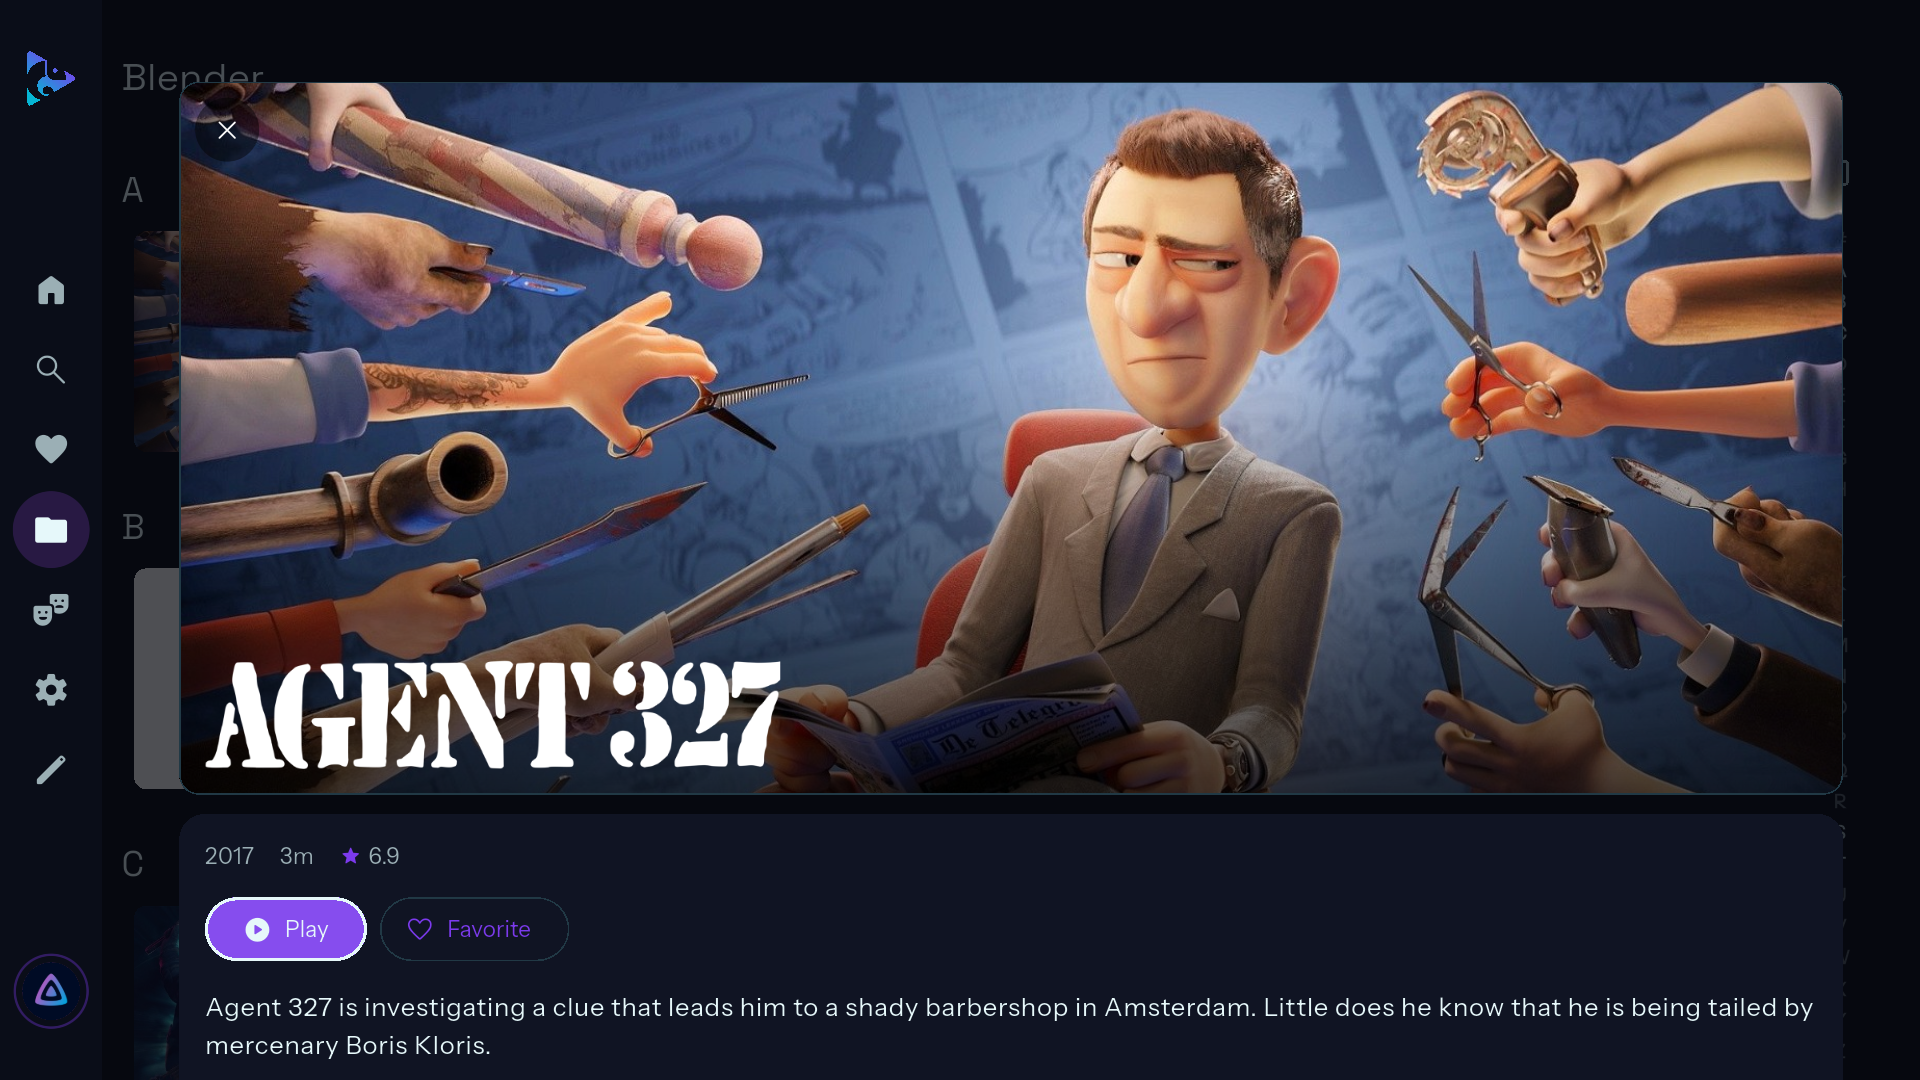
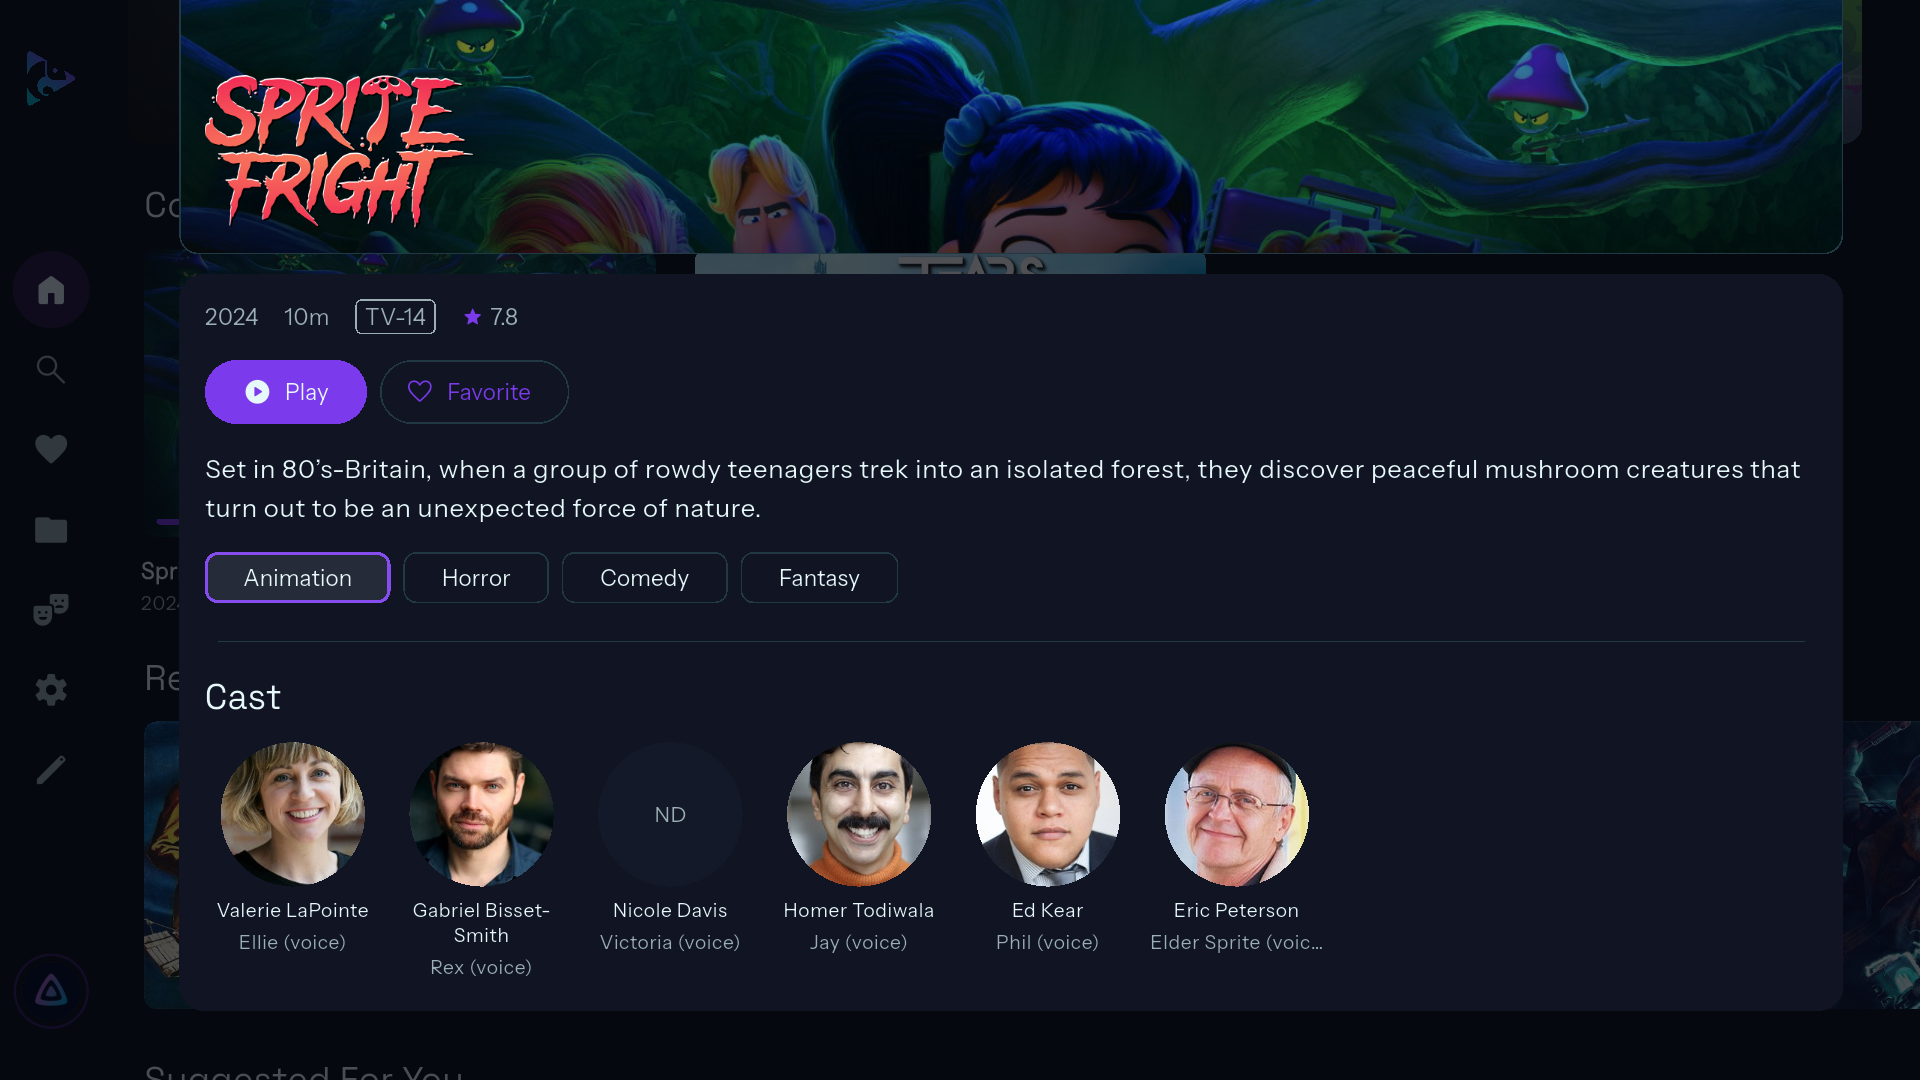
Release 1.1.2 (build 4): fix green video edges on Android TV
Flutter's ImageReader surface producer draws a decoder's whole buffer, ignoring its crop,
so decoders that pad frames (many TV chips) showed the padding as green bars. Video
surfaces now use SurfaceTexture, which applies the crop. Also new TV screenshots.

diff --git a/android/app/src/main/kotlin/dev/jumpingfox/chameleon/MainActivity.kt b/android/app/src/main/kotlin/dev/jumpingfox/chameleon/MainActivity.kt
@@ -14,6 +14,7 @@ import android.view.View
 import android.view.ViewGroup
 import io.flutter.embedding.android.FlutterActivity
 import io.flutter.embedding.engine.FlutterEngine
+import io.flutter.embedding.engine.renderer.FlutterRenderer
 import io.flutter.plugin.common.MethodChannel
 
 class MainActivity : FlutterActivity() {
@@ -30,6 +31,11 @@ class MainActivity : FlutterActivity() {
     }
 
     override fun configureFlutterEngine(flutterEngine: FlutterEngine) {
+        // Video frames reach Flutter through a SurfaceTexture rather than an ImageReader. Flutter
+        // draws an ImageReader's whole buffer, ignoring the decoder's crop, so a decoder that pads
+        // its frames (many TV chips round 2160 up to 2176, say) shows the padding as green edges.
+        // A SurfaceTexture applies the crop. Only the video player (media_kit) creates these.
+        FlutterRenderer.debugForceSurfaceProducerGlTextures = true
         super.configureFlutterEngine(flutterEngine)
         // What this device can do with video and audio, so the player picks how to play each file
         // (see lib/core/platform/media_support.dart).

diff --git a/docs/release-notes/1.1.2.md b/docs/release-notes/1.1.2.md
@@ -1,0 +1,18 @@
+# Chameleon 1.1.2 (build 4)
+
+## Google Play "What's new" (en-US, under 500 characters)
+
+```
+Fixed green edges around videos on some Android TVs.
+```
+
+## Full changes
+
+**Playback**
+- Fixed green bars at the edges of the picture on devices whose hardware decoder pads its
+  frames (common on Android TV, seen with HEVC and Dolby Vision profile 8.1). Video now
+  reaches the screen through a SurfaceTexture, which applies the decoder's crop; Flutter's
+  default ImageReader route draws the padding too.
+
+**Store listing**
+- New TV screenshots for the details page and the Emerald theme.
